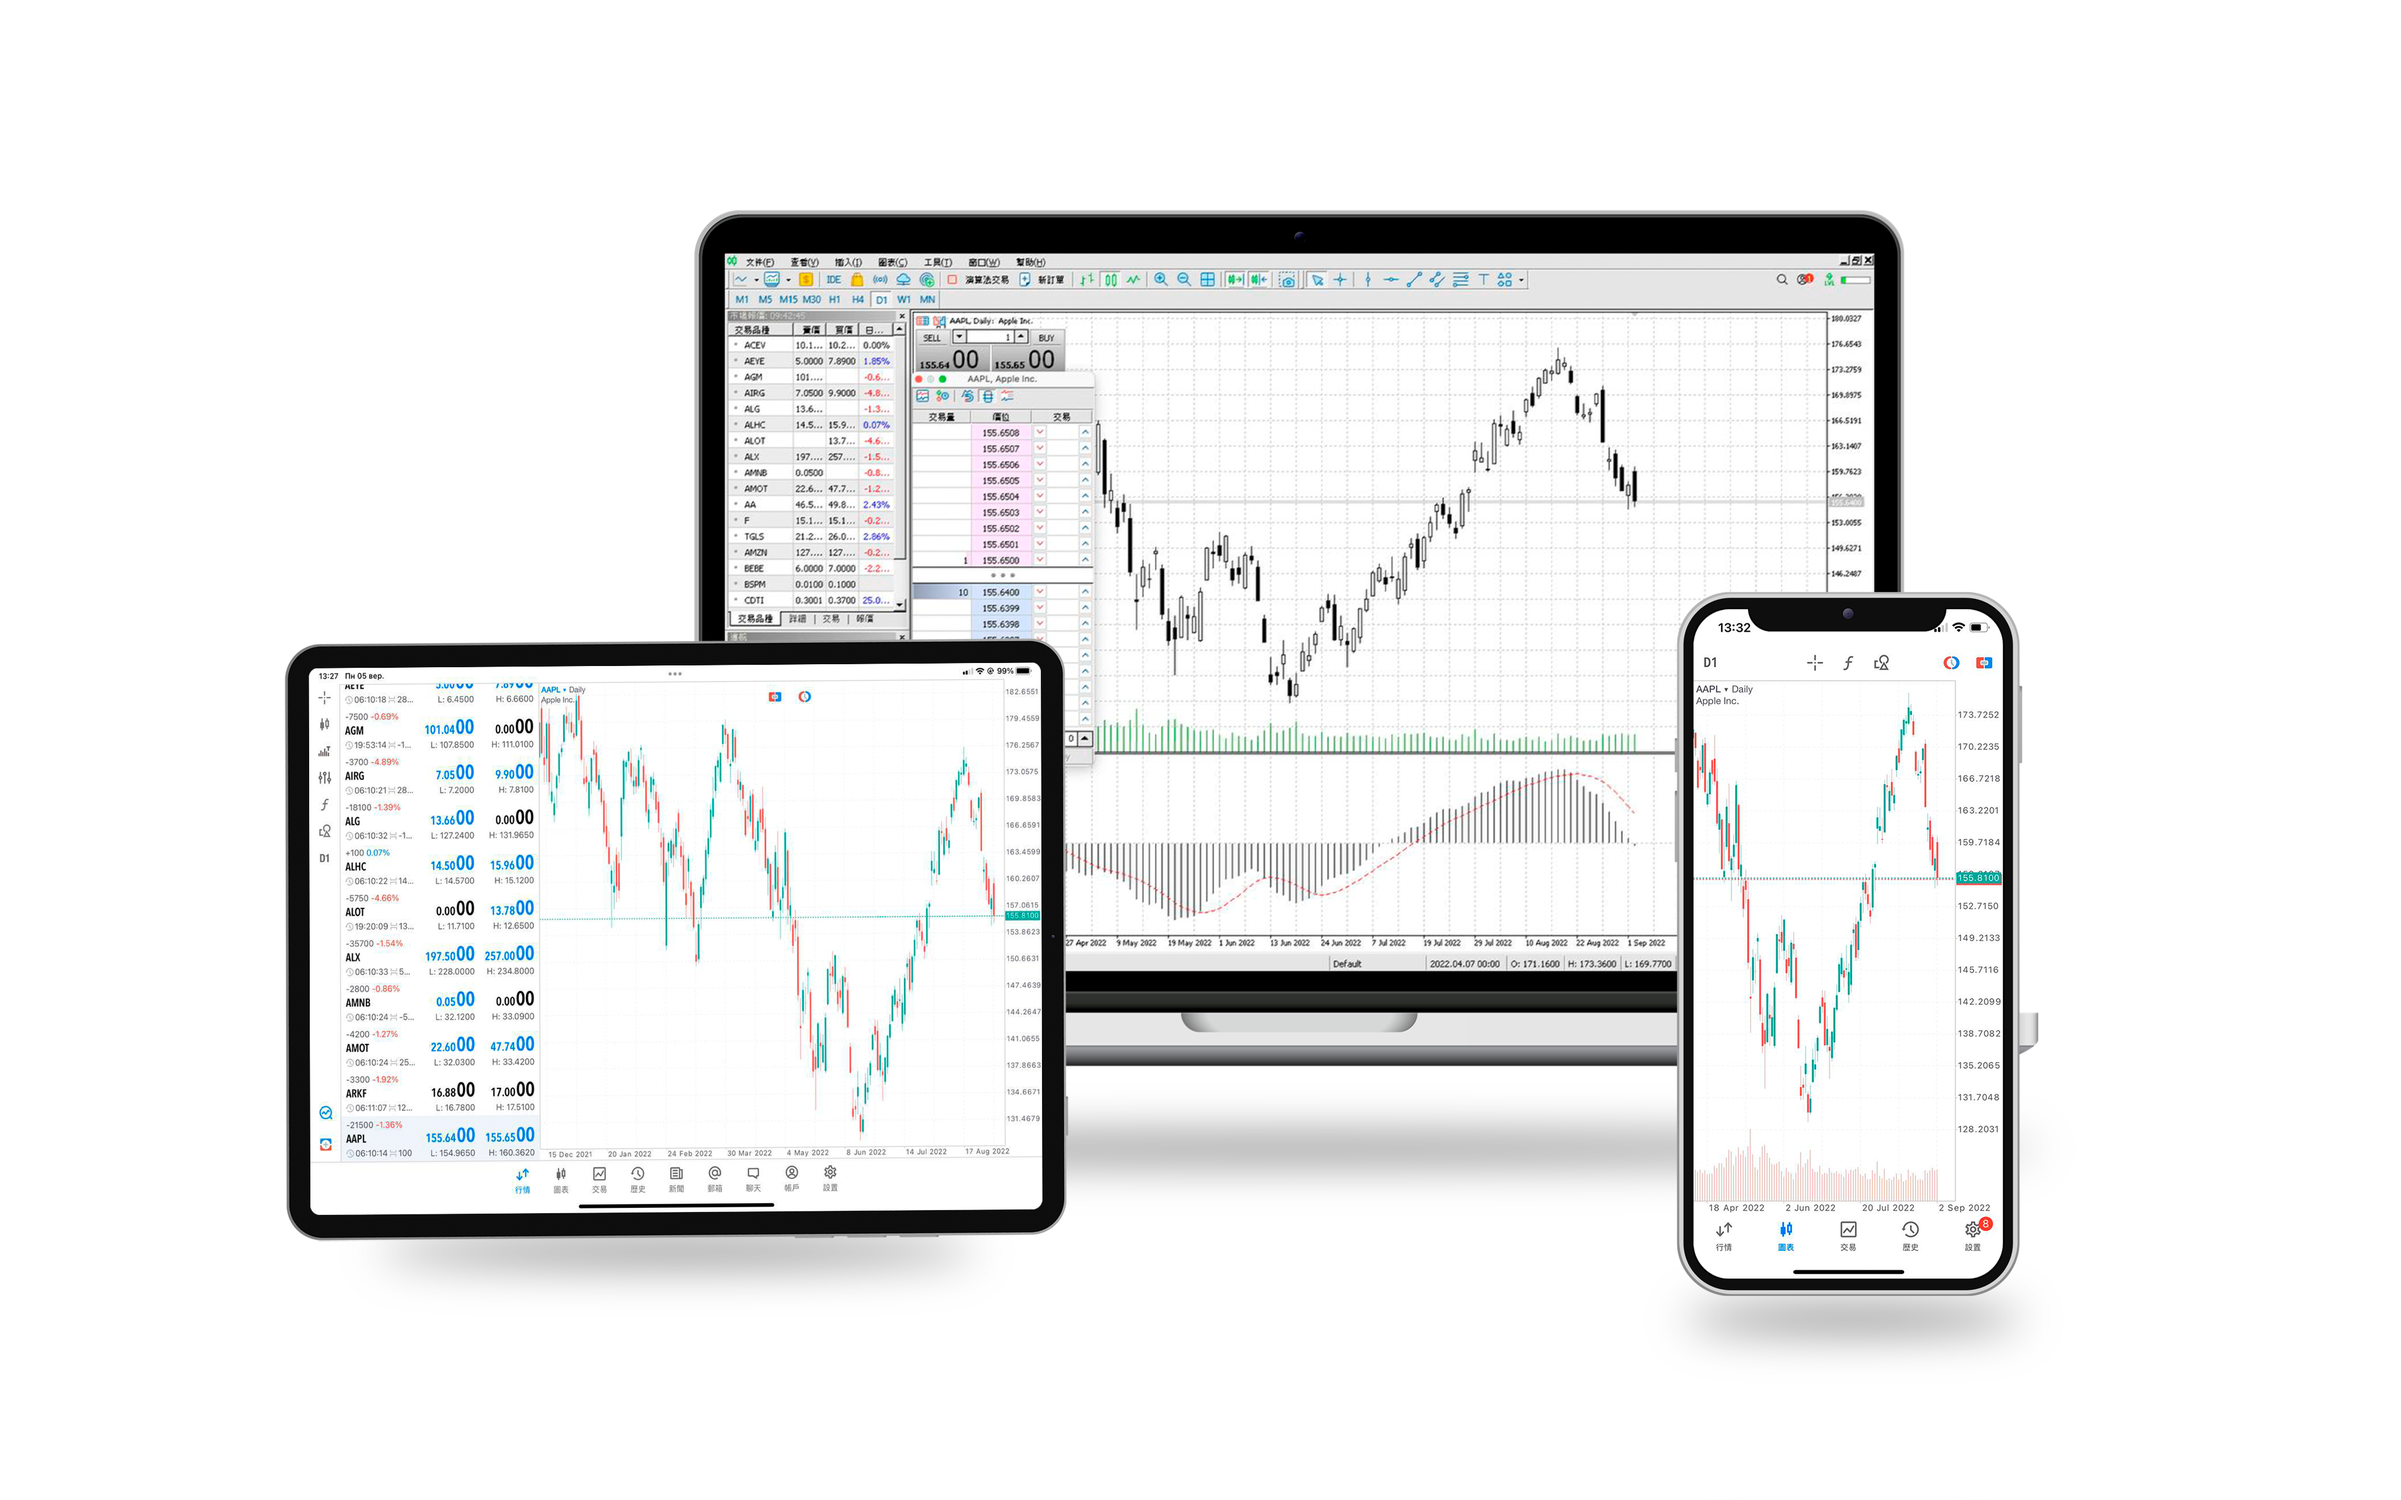
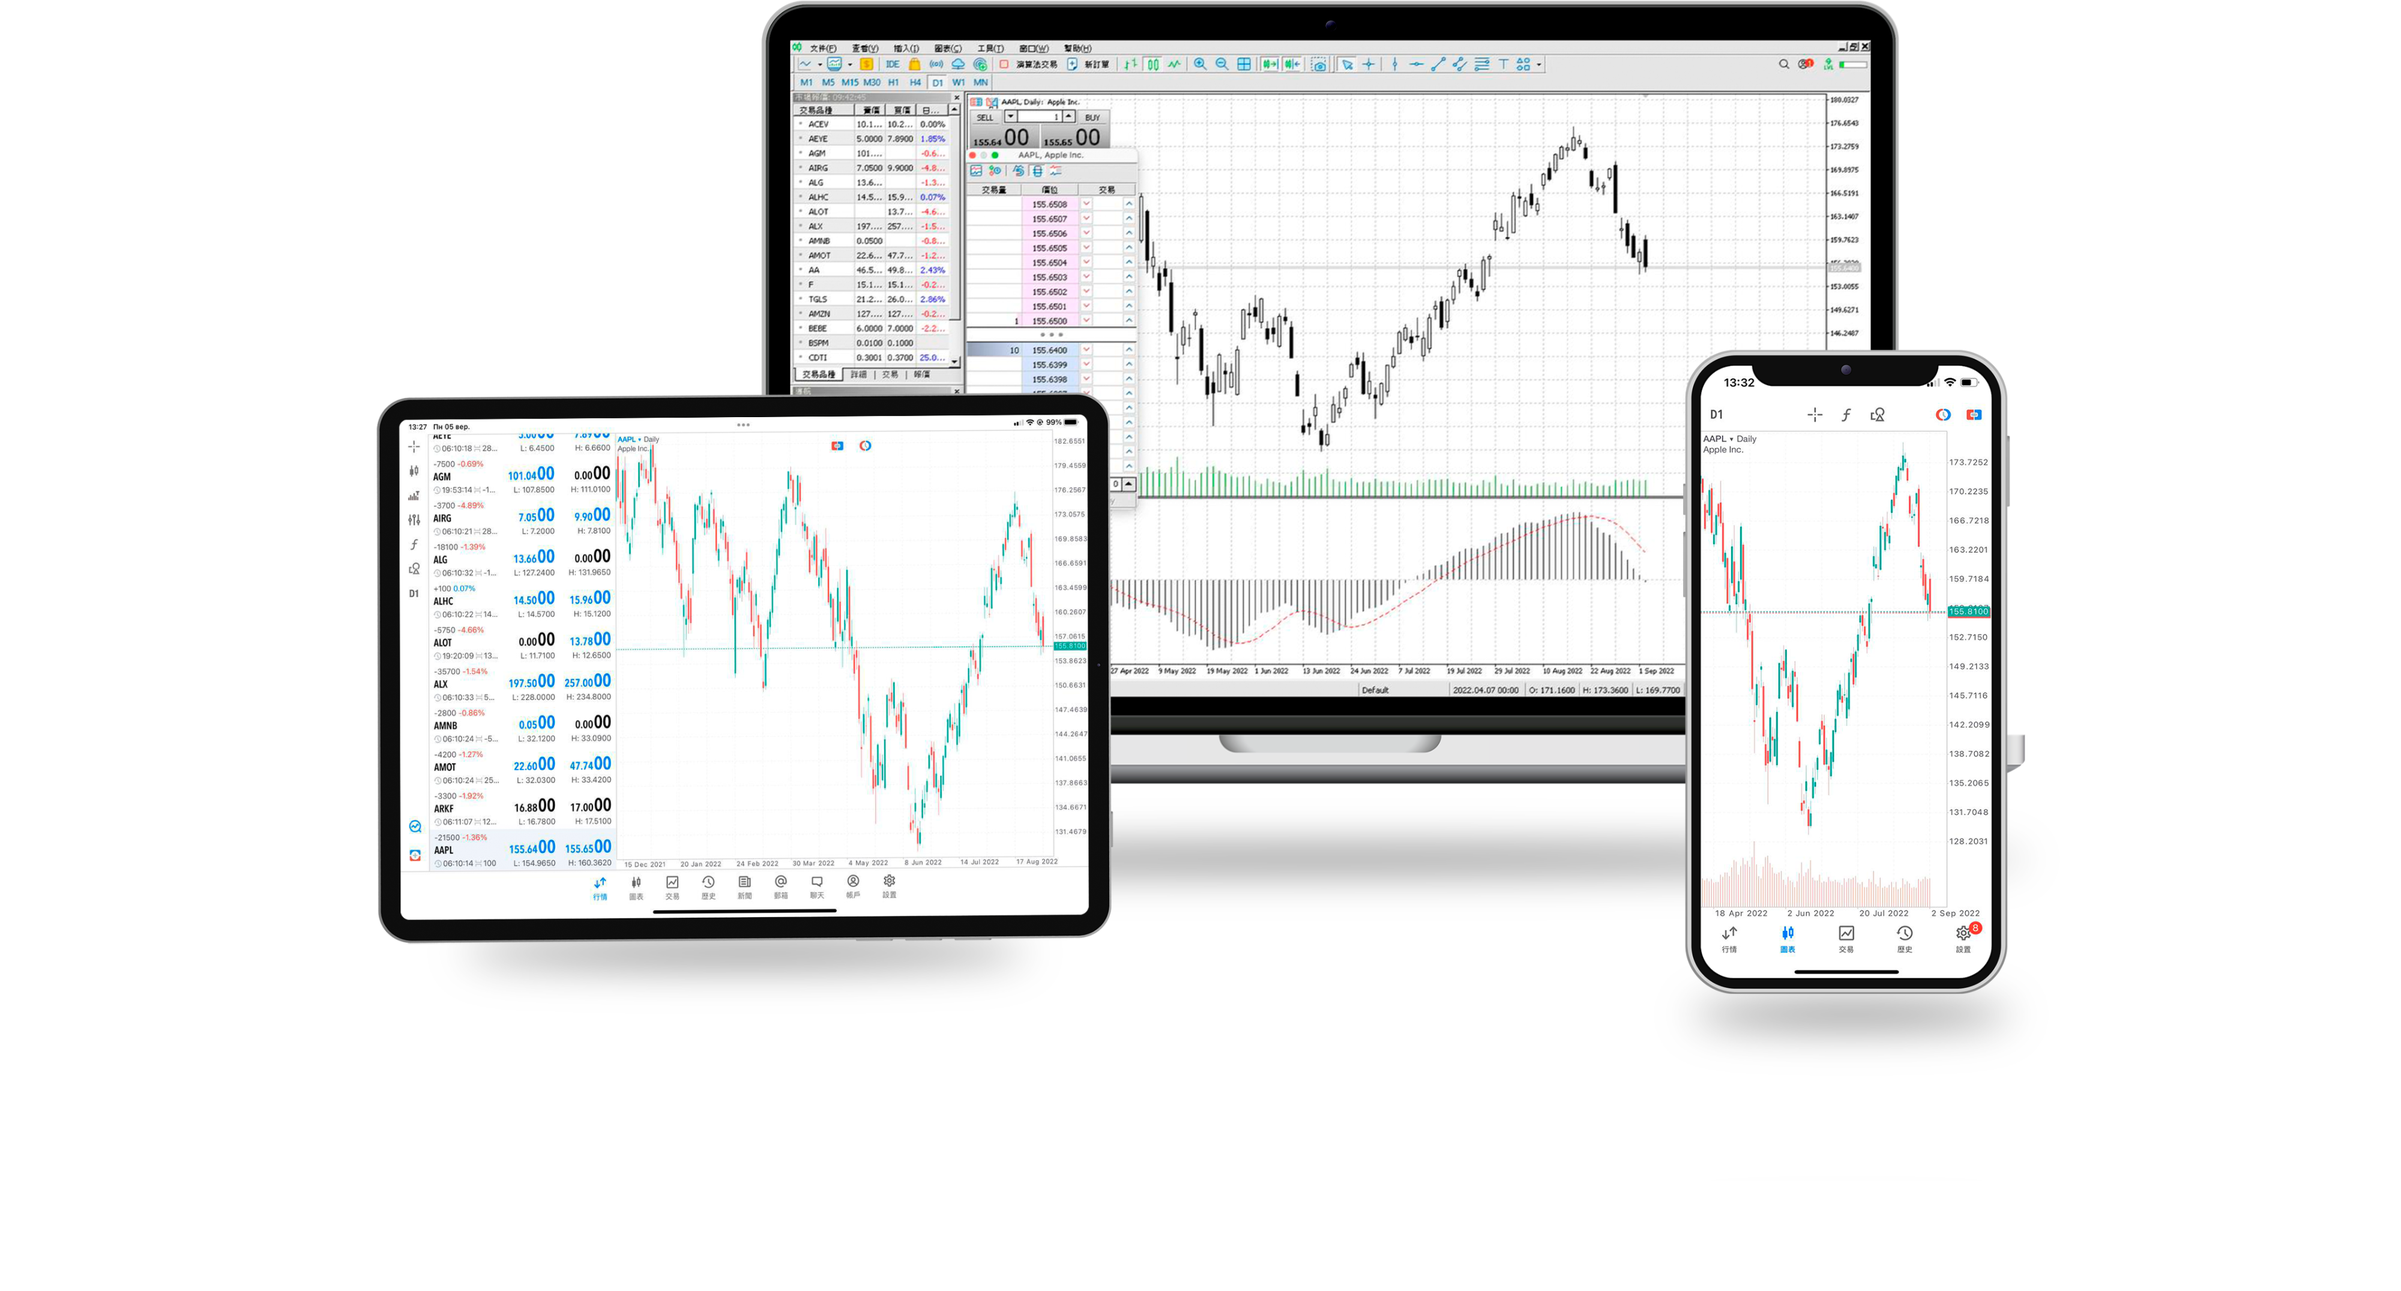
add big phone

Changed region(s): [[0.0938, 0.0, 0.8438, 0.9033]]

diff --git a/css/style.min.css b/css/style.min.css
@@ -924,10 +924,10 @@ body {
   }
 }
 .main__image--tablet {
-  width: 320px;
-  height: 800px;
-  /* -o-object-fit: unset;
-  object-fit: unset; */
+  /* width: 320px; */
+  max-height: 800px;
+  -o-object-fit: unset;
+  object-fit: unset;
 }
 @media screen and (min-width: 1210px) {
   .main__image--tablet {
